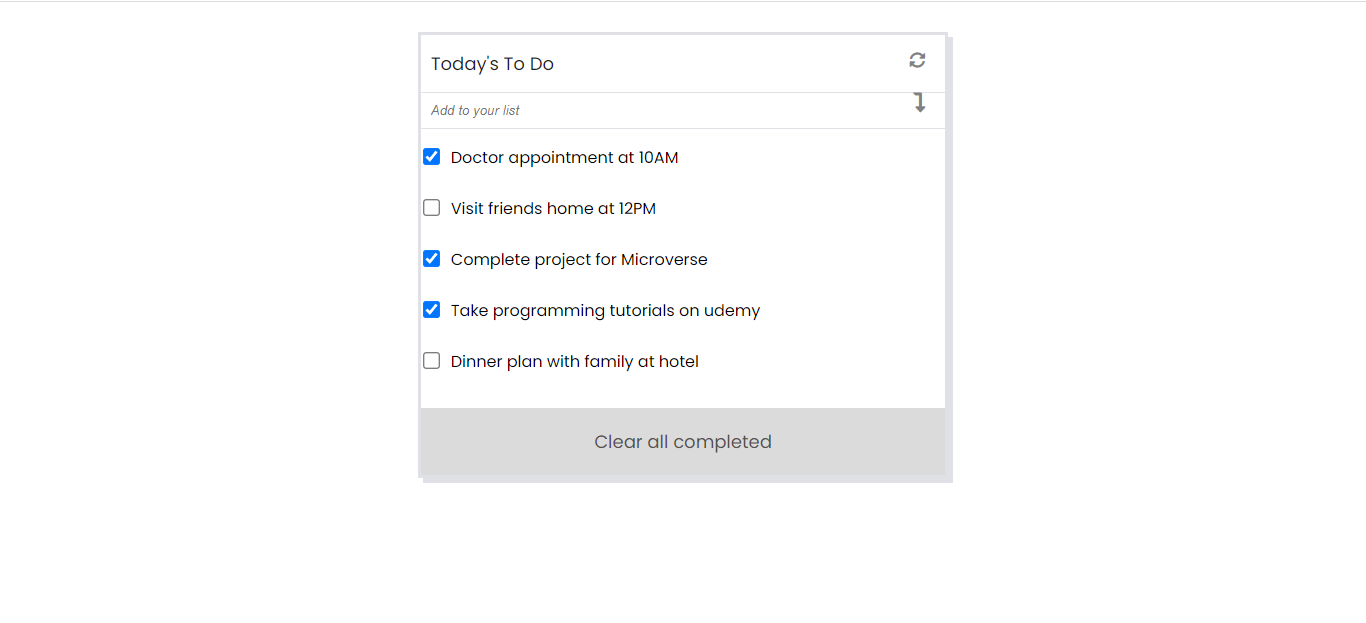
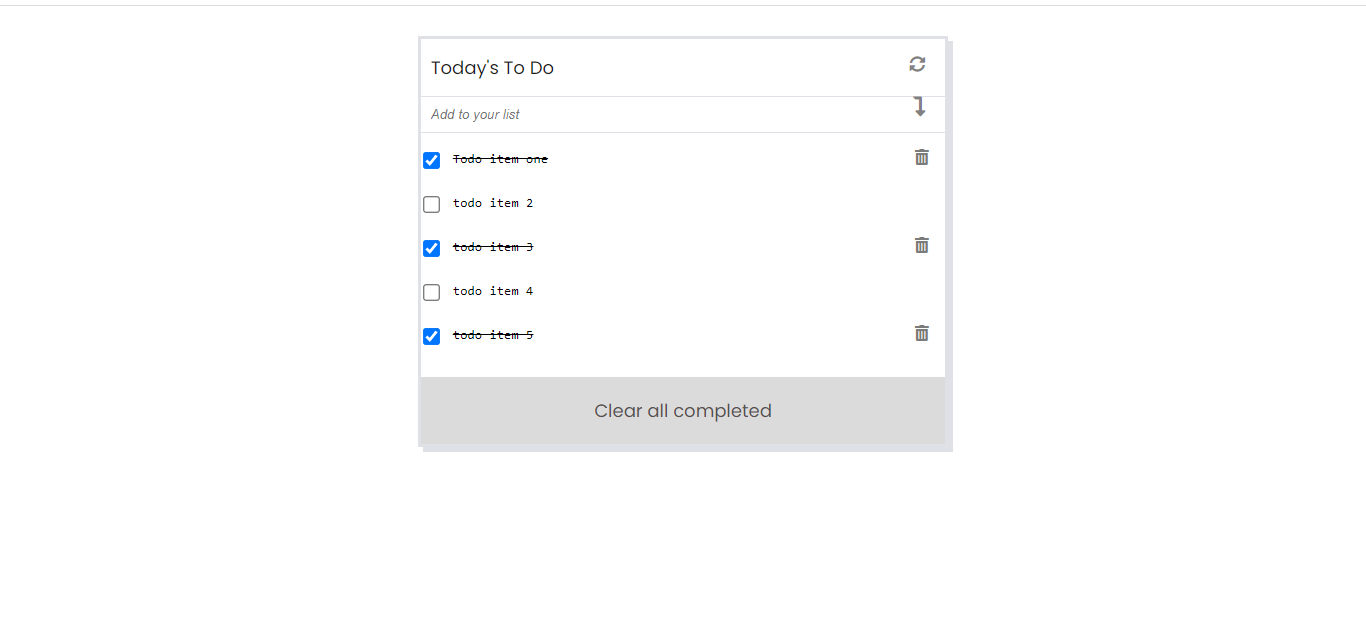
Add functionality to add item

diff --git a/src/utils/structure.js b/src/utils/structure.js
@@ -1,50 +1,52 @@
-const items = [
-  {
-    description: 'Doctor appointment at 10AM',
-    completed: false,
-    index: 0,
-  },
-  {
-    description: 'Visit friends home at 12PM',
-    completed: false,
-    index: 1,
-  },
-  {
-    description: 'Complete project for Microverse',
-    completed: false,
-    index: 2,
-  },
-  {
-    description: 'Take programming tutorials on udemy',
-    completed: false,
-    index: 3,
-  },
-  {
-    description: 'Dinner plan with family at hotel',
-    completed: false,
-    index: 4,
-  },
-];
+import { userInteraction } from './interaction.js';
 
+const items = [];
+const form = document.querySelector('.form-element');
 function displayTask() {
   const container = document.querySelector('.list-container');
-  const list = document.createElement('ul');
-
-  for (let i = 0; i < items.length; i += 1) {
-    const item = items[i];
-    const listItem = document.createElement('li');
-    listItem.className = 'list-item';
-    listItem.innerHTML = `<input class="list-input" type="checkbox"><p class="item-details">${item.description}</p>`;
-    list.appendChild(listItem);
-  }
-
-  container.appendChild(list);
+  form.addEventListener('submit', (event) => {
+    event.preventDefault();
+    const data = form.elements[0].value;
+    const object = {
+      description: data,
+      completed: false,
+      index: items.length + 1,
+    };
+    form.reset();
+    items.push(object);
+    localStorage.setItem('itemsLocal', JSON.stringify(items));
+    render();
+  });
   const clearElement = document.createElement('p');
   clearElement.className = 'clear';
   clearElement.innerText = 'Clear all completed';
   container.appendChild(clearElement);
-  const listInput = document.querySelectorAll('.list-input');
-  return listInput;
+  const clear = document.querySelector('.clear');
+  const list = document.createElement('ul');
+  list.className = 'ul-list';
+  container.insertBefore(list, clear);
 }
 
-export { items, displayTask };
+function render() {
+  const list = document.querySelector('.ul-list');
+  const itemsLocal = JSON.parse(localStorage.getItem('itemsLocal'));
+  items.splice(0, items.length, ...itemsLocal);
+  list.innerHTML = '';
+  for (let i = 0; i < itemsLocal.length; i += 1) {
+    const { description } = itemsLocal[i];
+    const listItem = document.createElement('li');
+    listItem.className = 'list-item';
+    listItem.innerHTML = `<input class="list-input" type="checkbox"><textarea name="textarea cols="30" class="item-details">${description}</textarea><i class="fas fa-trash-alt"></i>`;
+    list.appendChild(listItem);
+  }
+  const listInput = document.querySelectorAll('.list-input');
+  userInteraction(listInput);
+  clearList();
+  removeItem();
+  updateValues();
+}
+
+
+displayTask();
+
+export { items, render };

diff --git a/src/utils/interaction.js b/src/utils/interaction.js
@@ -1,25 +1,43 @@
-import { items, displayTask } from './structure.js';
+import { items, render } from './structure.js';
 
-const listInput = displayTask();
-
-function userInteraction() {
+function userInteraction(listInput) {
+  const itemsLocal = JSON.parse(localStorage.getItem('itemsLocal'));
   listInput.forEach((item) => {
     item.addEventListener('change', () => {
+      console.log(itemsLocal[0].completed);
       const parent = item.parentNode;
       const superParent = parent.parentNode;
       const index = Array.prototype.indexOf.call(superParent.children, parent);
-      const currentItem = items[index].completed;
+      const currentItem = itemsLocal[index].completed;
       if (currentItem) {
-        items[index].completed = false;
+        item.removeAttribute('checked');
+        parent.lastChild.style.display = 'none';
+        itemsLocal[index].completed = false;
       } else {
-        items[index].completed = true;
+        item.setAttribute('checked', '');
+        parent.lastChild.style.display = 'block';
+        itemsLocal[index].completed = true;
       }
+      textDecoration(listInput);
+      localStorage.setItem('itemsLocal', JSON.stringify(itemsLocal));
+      items.splice(0, items.length, ...itemsLocal);
     });
   });
 }
 
-function storeValues() {
+function textDecoration(listInput) {
   listInput.forEach((item) => {
+    if (item.hasAttribute('checked')) {
+      console.log('hello');
+      item.nextSibling.style.textDecoration = 'line-through';
+    } else {
+      item.nextSibling.style.textDecoration = 'none';
+    }
+  });
+}
+
+function storeValues() {
+  document.querySelectorAll('.list-input').forEach((item) => {
     item.addEventListener('change', () => {
       localStorage.setItem('itemsLocal', JSON.stringify(items));
     });
@@ -28,8 +46,9 @@ function storeValues() {
 
 function populateStorage() {
   window.addEventListener('load', () => {
+    render();
+    const listInput = document.querySelectorAll('.list-input');
     const itemsLocal = JSON.parse(localStorage.getItem('itemsLocal'));
-    items.splice(0, items.length, ...itemsLocal);
     listInput.forEach((item) => {
       const parent = item.parentNode;
       const superParent = parent.parentNode;
@@ -37,9 +56,11 @@ function populateStorage() {
       const currentItem = itemsLocal[index].completed;
       if (currentItem) {
         item.setAttribute('checked', '');
+        parent.lastChild.style.display = 'block';
       }
     });
+    textDecoration(listInput);
   });
 }
 
-export { userInteraction, storeValues, populateStorage };
+export { storeValues, populateStorage, userInteraction };

diff --git a/src/index.html b/src/index.html
@@ -19,8 +19,9 @@
         <i class="fas fa-sync-alt"></i>
       </div>
       <hr>
-      <form>
+      <form class="form-element">
         <input class="form-input" type="text" placeholder="Add to your list"><i class="fas fa-level-down-alt"></i>
+        <input class="submit" type="submit" hidden>
       </form>
       <hr>
     <div class="list-container">

diff --git a/src/index.js b/src/index.js
@@ -1,6 +1,5 @@
 import './style.css';
-import { userInteraction, storeValues, populateStorage } from './utils/interaction.js';
+import { storeValues, populateStorage } from './utils/interaction.js';
 
-userInteraction();
 storeValues();
 populateStorage();

diff --git a/src/style.css b/src/style.css
@@ -74,6 +74,16 @@ ul {
 
 .item-details {
   margin-top: 0;
+  width: 300px;
+  border: none;
+  resize: none;
+  outline: none;
+}
+
+.fa-trash-alt {
+  display: none;
+  margin-left: 150px;
+  color: rgba(73, 73, 73, 0.726);
 }
 
 .fa-square {
